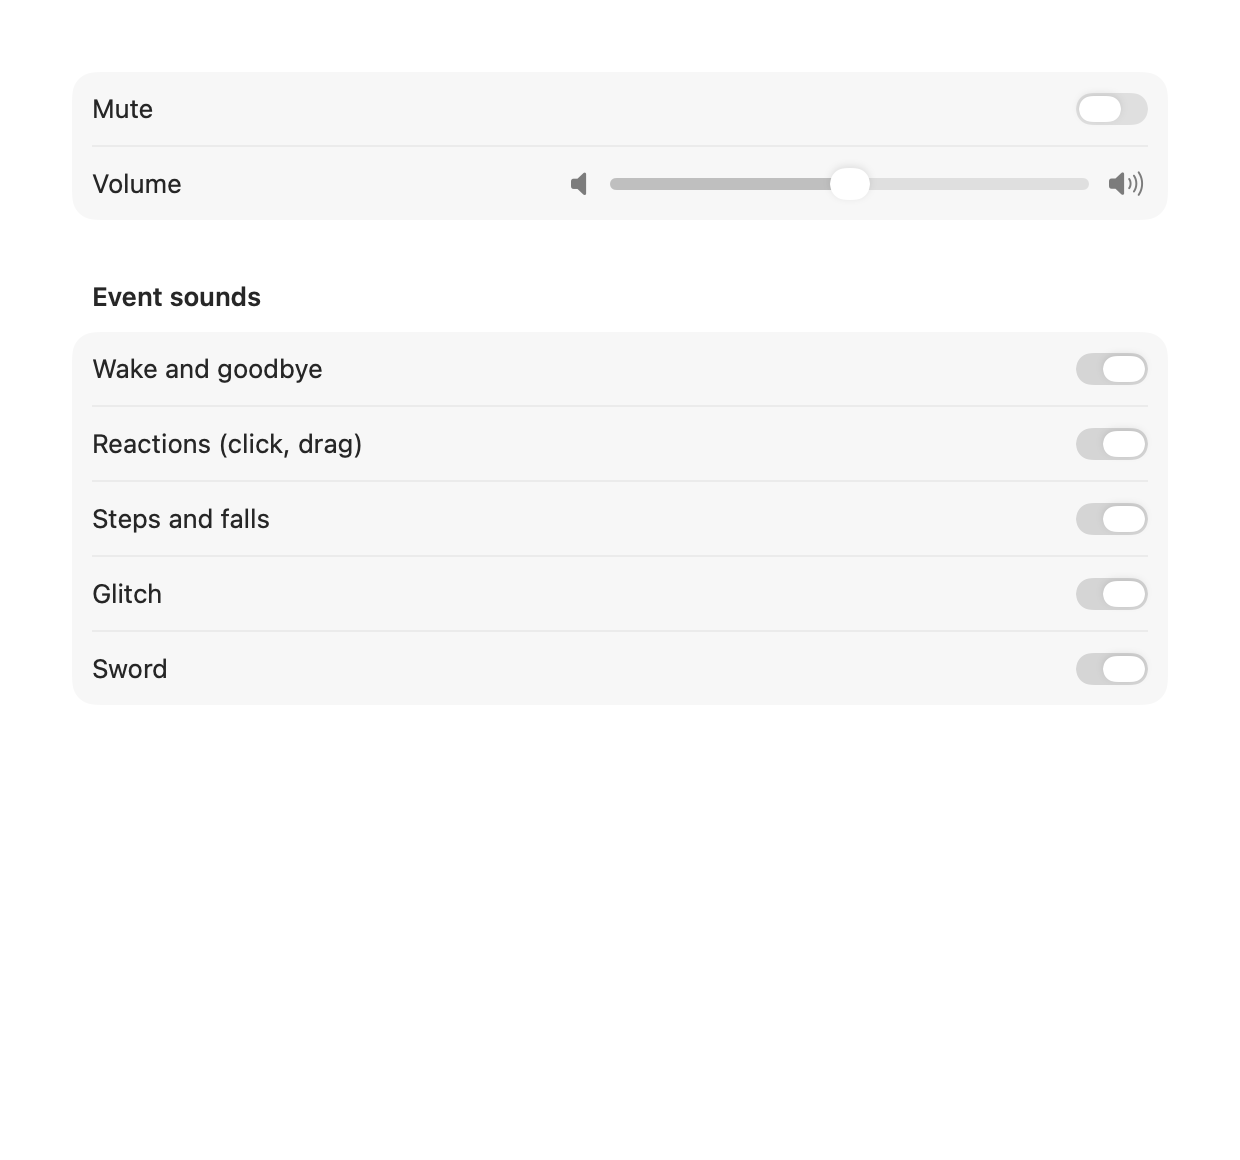
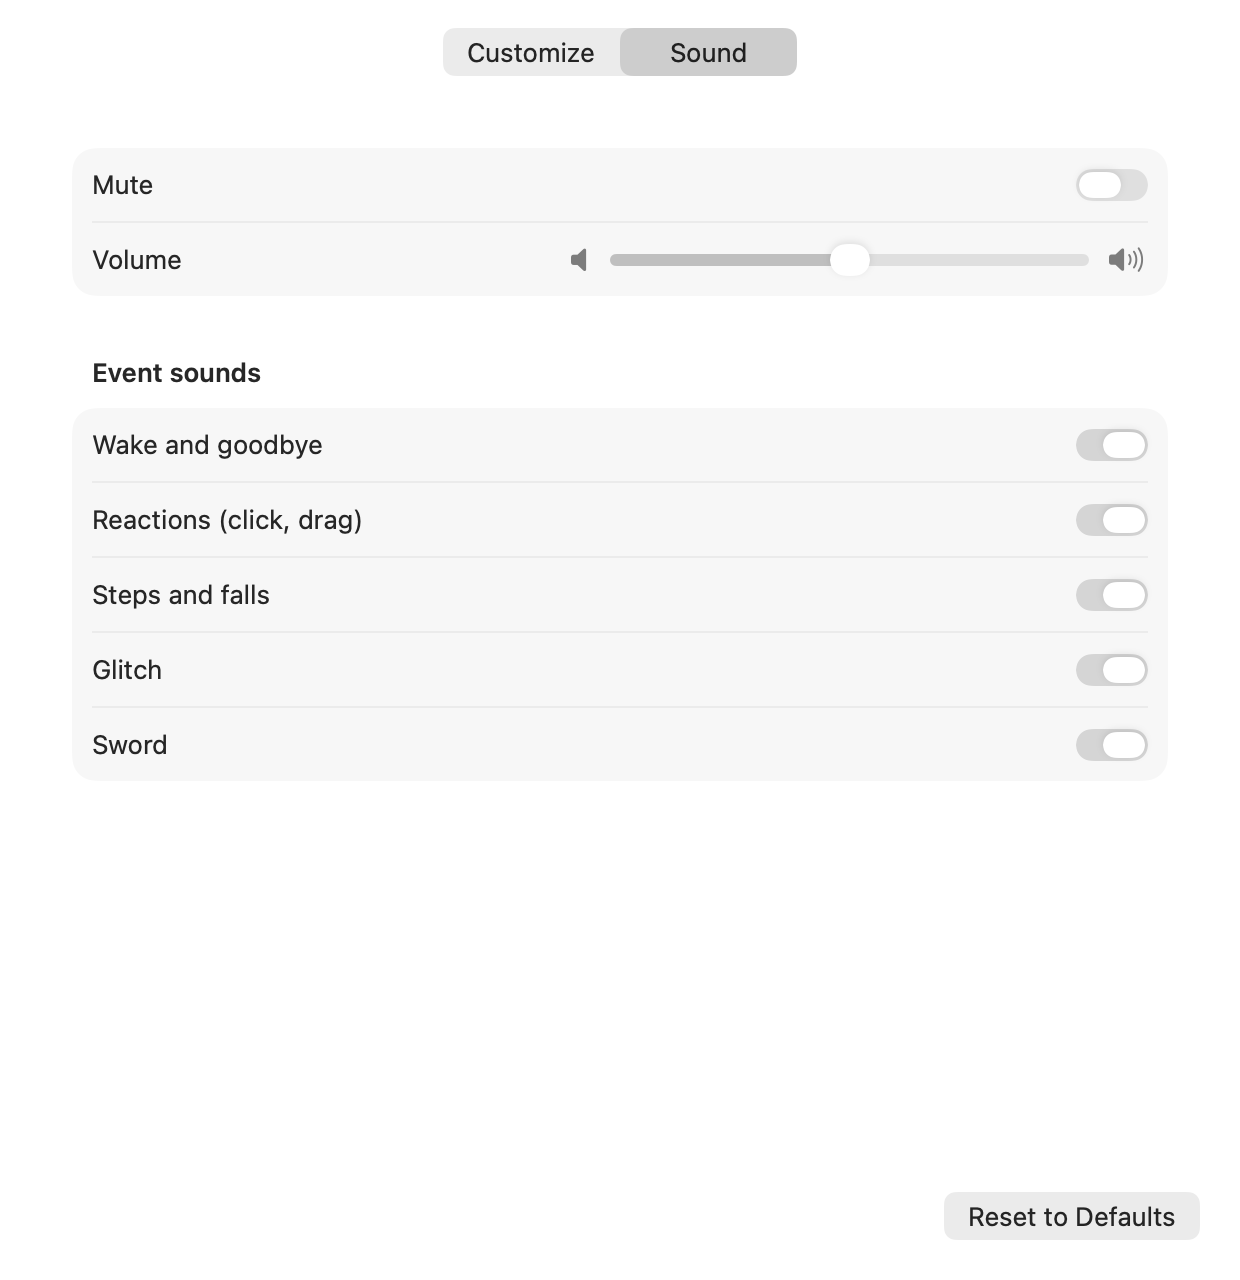
Settings: visible Customize/Sound switcher and Reset to Defaults
TabView put its tabs where they could go unnoticed; a segmented picker at the top
is always visible. Reset to Defaults restores the open section's settings.

diff --git a/Glitch/SettingsView.swift b/Glitch/SettingsView.swift
@@ -5,15 +5,28 @@ struct SettingsView: View {
     @AppStorage(Prefs.settingsTab) private var tab = "customize"
 
     var body: some View {
-        TabView(selection: $tab) {
-            CustomizeTab()
-                .tabItem { Label("Customize", systemImage: "paintbrush") }
-                .tag("customize")
-            SoundTab()
-                .tabItem { Label("Sound", systemImage: "speaker.wave.2") }
-                .tag("sound")
+        // a plain segmented switcher instead of TabView, whose tabs end up in the title bar on recent macOS
+        VStack(spacing: 0) {
+            Picker("Section", selection: $tab) {
+                Label("Customize", systemImage: "paintbrush").tag("customize")
+                Label("Sound", systemImage: "speaker.wave.2").tag("sound")
+            }
+            .pickerStyle(.segmented)
+            .labelsHidden()
+            .fixedSize()
+            .padding(.top, 14)
+
+            if tab == "sound" { SoundTab() } else { CustomizeTab() }
+
+            HStack {
+                Spacer()
+                Button("Reset to Defaults") {
+                    Prefs.reset(tab == "sound" ? Prefs.soundKeys : Prefs.customizeKeys)
+                }
+            }
+            .padding([.horizontal, .bottom], 20)
         }
-        .frame(width: 620, height: 580)
+        .frame(width: 620, height: 640)
     }
 }
 

diff --git a/Glitch/GlitchApp.swift b/Glitch/GlitchApp.swift
@@ -25,7 +25,7 @@ struct GlitchApp: App {
             Button("Quit") { NSApp.terminate(nil) }
                 .keyboardShortcut("q")
         }
-        Window("Glitch", id: "settings") {
+        Window("Glitch Settings", id: "settings") {
             SettingsView()
         }
         .windowResizability(.contentSize)
@@ -425,7 +425,7 @@ final class AppDelegate: NSObject, NSApplicationDelegate {
 
     /// Dev helper: draws the Customize or Sound tab to a PNG without clicking through the menu bar.
     private func renderSettings(to path: String, tab: String) {
-        let window = NSWindow(contentRect: NSRect(x: 200, y: 200, width: 620, height: 580),
+        let window = NSWindow(contentRect: NSRect(x: 200, y: 200, width: 620, height: 640),
                               styleMask: [.titled], backing: .buffered, defer: false)
         if tab == "welcome" {
             window.contentView = NSHostingView(rootView: WelcomeView())

diff --git a/Glitch/Prefs.swift b/Glitch/Prefs.swift
@@ -23,6 +23,14 @@ enum Prefs {
     }
 
     static var d: UserDefaults { .standard }
+
+    static let customizeKeys = [character, scale, hue, liveliness, gravity, hideInFullscreen]
+    static var soundKeys: [String] { [volume, muted] + SoundGroup.allCases.map(\.key) }
+
+    /// Back to the registered defaults: removing a key makes UserDefaults fall back to them.
+    static func reset(_ keys: [String]) {
+        keys.forEach(d.removeObject(forKey:))
+    }
 }
 
 /// Sound tab toggles: each switches a group of effects on or off.
